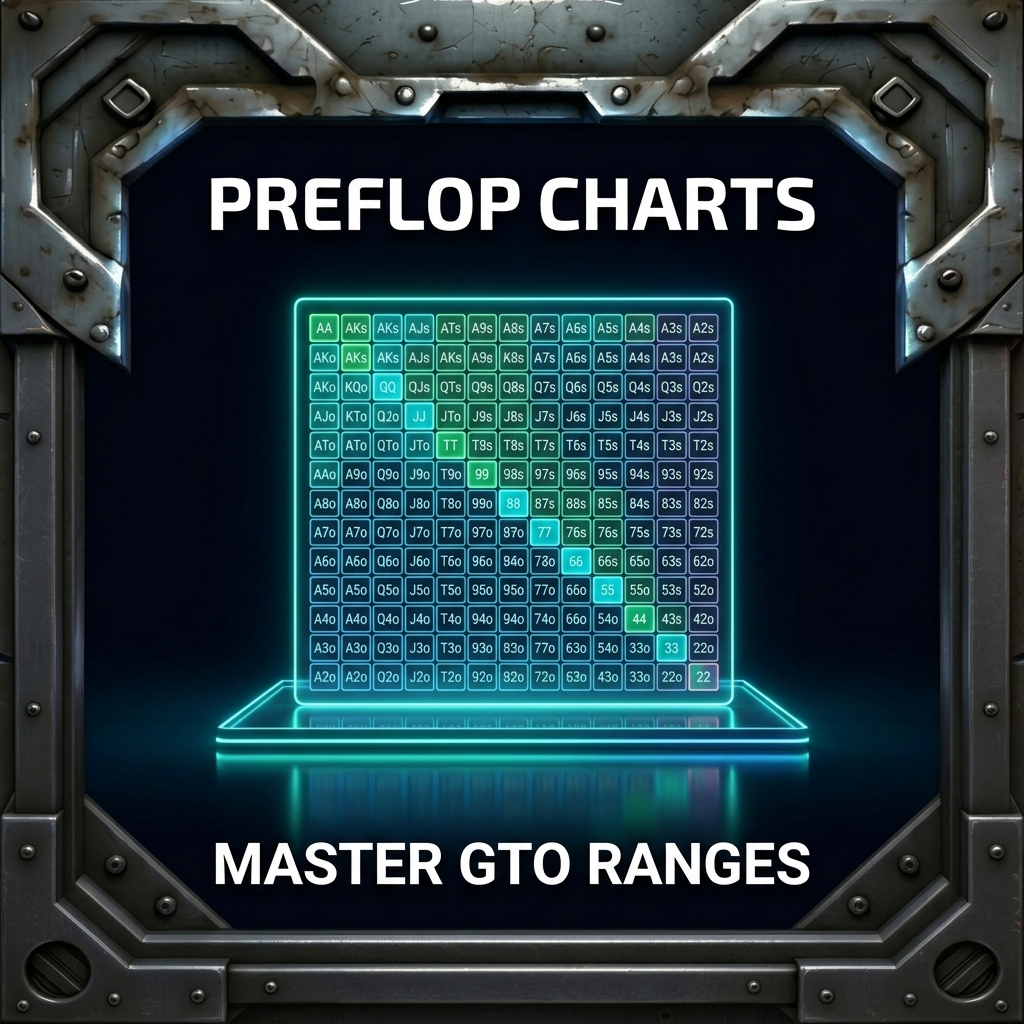
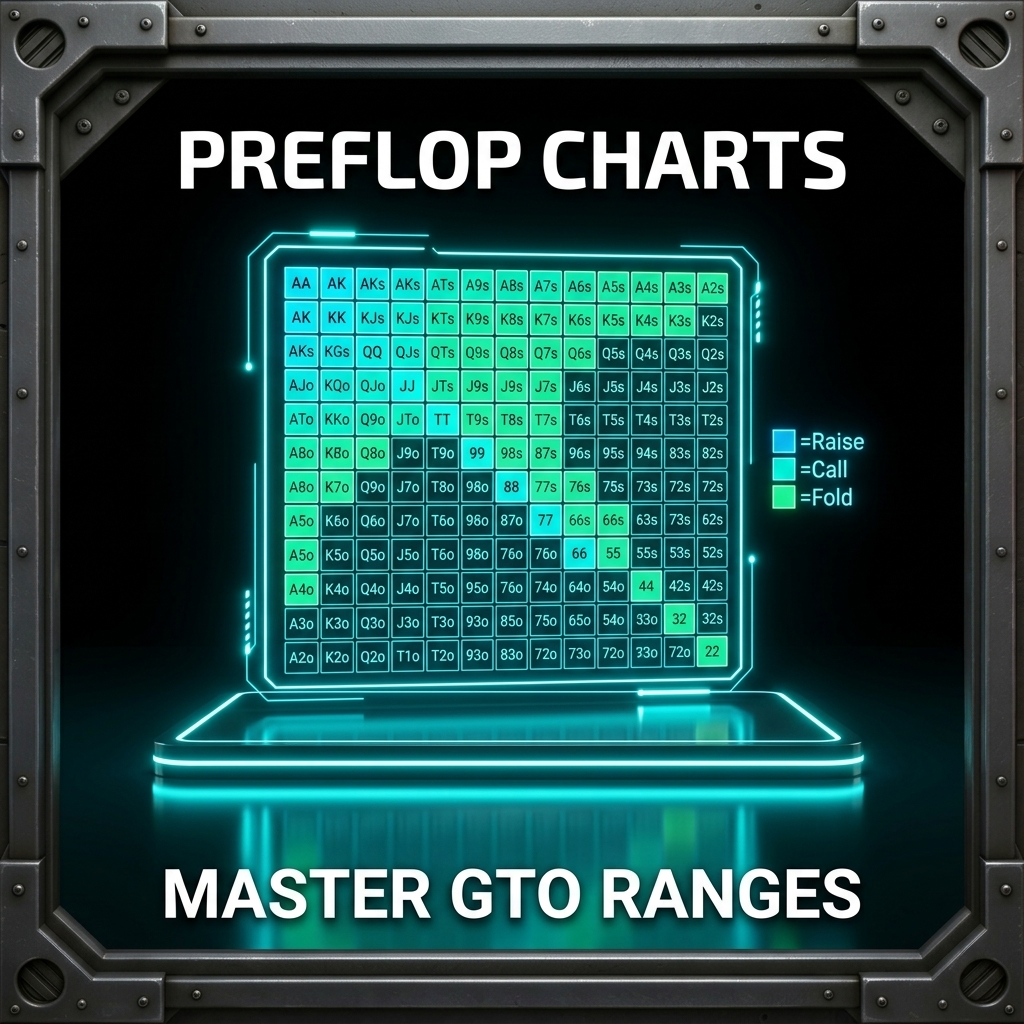
Replace Memory Games card with Preflop Charts in World Hub — new metal-framed card image with GTO range grid

diff --git a/src/orbs/manifest/registry.ts b/src/orbs/manifest/registry.ts
@@ -20,7 +20,7 @@ export const POKER_IQ_ORBS: OrbConfig[] = [
     { id: 'training', color: '#00ff66', label: 'Training', gradient: ['#69f0ae', '#00c853'], imageUrl: '/cards/training.jpg', description: '100 GAMES TO MASTER — LEVEL UP YOUR POKER IQ ONE DRILL AT A TIME' },
     { id: 'news', color: '#ff6600', label: 'News', gradient: ['#ff8c42', '#e55812'], imageUrl: '/cards/news.jpg', description: 'BREAKING POKER NEWS — TOURNAMENTS, DRAMA, AND LEGEND STORIES' },
     { id: 'personal-assistant', color: '#0088ff', label: 'Personal Assistant', gradient: ['#64b5f6', '#1565c0'], imageUrl: '/cards/personal-assistant.jpg', description: 'YOUR AI COACH — FINDS YOUR LEAKS AND LEVELS UP YOUR GAME' },
-    { id: 'preflop-charts', color: '#00ffff', label: 'Preflop Charts', gradient: ['#84ffff', '#00bcd4'], imageUrl: '/cards/memory-games.jpg', description: 'MASTER GTO RANGES — TRAIN PREFLOP DECISIONS UNDER PRESSURE' },
+    { id: 'preflop-charts', color: '#00ffff', label: 'Preflop Charts', gradient: ['#84ffff', '#00bcd4'], imageUrl: '/cards/preflop-charts.jpg', description: 'MASTER GTO RANGES — TRAIN PREFLOP DECISIONS UNDER PRESSURE' },
     { id: 'bankroll-manager', color: '#ff00ff', label: 'Bankroll Manager', gradient: ['#f48fb1', '#c2185b'], imageUrl: '/cards/bankroll-manager.jpg', description: 'PROFESSIONAL TRACKING — MANAGE AND GROW YOUR POKER BANKROLL' },
     { id: 'poker-near-me', color: '#ffffff', label: 'Poker Near Me', gradient: ['#e0e0e0', '#9e9e9e'], imageUrl: '/cards/poker-near-me.jpg', description: '680 VENUES  ALL TOURNAMENTS REAL TIME DATA' },
     { id: 'marketplace', color: '#ffd700', label: 'Marketplace', gradient: ['#ffe066', '#ccaa00'], imageUrl: '/cards/marketplace.jpg', description: 'PREMIUM POKER GEAR — CARDS, CHIPS, AND EXCLUSIVE MERCH' },
